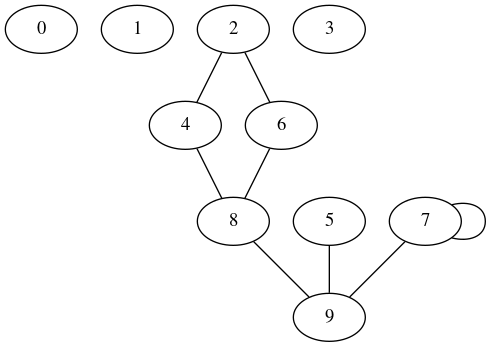
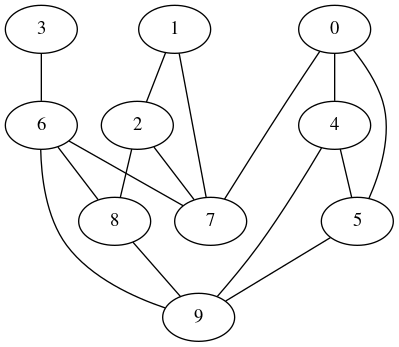
Fixed generategraph

diff --git a/compo_connexes/src/compoConnexes2.c b/compo_connexes/src/compoConnexes2.c
@@ -1,25 +1,41 @@
 #include "compoConnexes2.h"
 
 void genererGraphe(couples_graphe_t* graphe, int nbNoeuds) {
-    int i, nbAretes = 0;
+    int i, nbAretes = 0, deb, fin;
     graphe->nbNoeuds = nbNoeuds;
     srand(time(NULL));
-    nbAretes = rand()%nbNoeuds;
-    graphe->aretes = (arete_t*)malloc(nbNoeuds * sizeof(arete_t));
+    nbAretes = rand()%(nbNoeuds*2) + nbNoeuds/2;
+    graphe->aretes = (arete_t*)malloc(nbAretes * sizeof(arete_t));
     if (graphe->aretes != NULL)
     {
-        graphe->nbAretes = nbAretes;
-        //printf("nb = %d\n", graphe->nbAretes);
+        graphe->nbAretes = 0;
         for (i = 0; i < nbAretes; i++)
         {
-            graphe->aretes[i].noeudDeb = rand()%nbNoeuds;
-            printf("deb = %d\n", graphe->aretes[i].noeudDeb);
-            graphe->aretes[i].noeudFin = rand()%(nbNoeuds-graphe->aretes[i].noeudDeb) + graphe->aretes[i].noeudDeb;
-            printf("fin = %d\n", graphe->aretes[i].noeudFin);
+            do {
+                deb = rand()%nbNoeuds;
+                fin = rand()%(nbNoeuds-deb) + deb;
+                graphe->aretes[i].noeudDeb = deb;
+                graphe->aretes[i].noeudFin = fin;
+            }
+            while (aretePasValide(graphe, deb, fin));
+            
+            (graphe->nbAretes)++;
         }
+        graphe->nbAretes = nbAretes;
     }
     else
     {
         puts("Error: memory allocation failed\n");
     }
+}
+
+bool_t aretePasValide(couples_graphe_t* graphe, int deb, int fin) {
+    bool_t status = false;
+    int i;
+    if (deb == fin) status = true;
+    for (i = 0; i < graphe->nbAretes; i++)
+    {
+        if (graphe->aretes[i].noeudDeb == deb && graphe->aretes[i].noeudFin == fin) status = true;
+    }
+    return status;
 }

diff --git a/compo_connexes/src/testCompoConnexe.c b/compo_connexes/src/testCompoConnexe.c
@@ -9,15 +9,15 @@ int main(void)
 	element_t **element;
 	int noeudsI;
 
-        //matrix = createAdjencyMatrix(n);
-        //afficherMatriceAdjacence(matrix, n);
-        //drawAdjencyMatrixGraph(matrix, n, "exempleMatAdjacence");
-	//partition = grapheToPartition(matrix, n);
-	//afficherForet(partition, n);
-	//element = noeudsCompoConnexes(matrix, n, &noeudsI);
-        //afficherNoeudsCompoConnexes(element, n, noeudsI);	
-	
-	genererGraphe(&graph, n);
+        genererGraphe(&graph, n);
         drawCouplesGraph(graph, "exempleCouplesGraphe");
+
+        matrix = createAdjencyMatrix(n);
+        afficherMatriceAdjacence(matrix, n);
+        drawAdjencyMatrixGraph(matrix, n, "exempleMatAdjacence");
+	partition = grapheToPartition(matrix, n);
+	afficherForet(partition, n);
+	element = noeudsCompoConnexes(matrix, n, &noeudsI);
+        afficherNoeudsCompoConnexes(element, n, noeudsI);	
         return 0;
 }

diff --git a/compo_connexes/src/compoConnexes2.h b/compo_connexes/src/compoConnexes2.h
@@ -3,6 +3,7 @@
 #include <stdlib.h>
 #include <time.h>
 #include "partition.h"
+#include "bool.h"
 
 typedef struct
 {
@@ -18,4 +19,4 @@ typedef struct
 } couples_graphe_t;
 
 void genererGraphe(couples_graphe_t* graphe, int n);
-void afficherGraphe(couples_graphe_t graphe); // affiche dans la console (pour tests)
+bool_t aretePasValide(couples_graphe_t* graphe, int deb, int fin);

diff --git a/compo_connexes/src/bool.h b/compo_connexes/src/bool.h
@@ -1,0 +1,4 @@
+#pragma once
+#include <stdio.h>
+
+typedef enum {false, true} bool_t;
